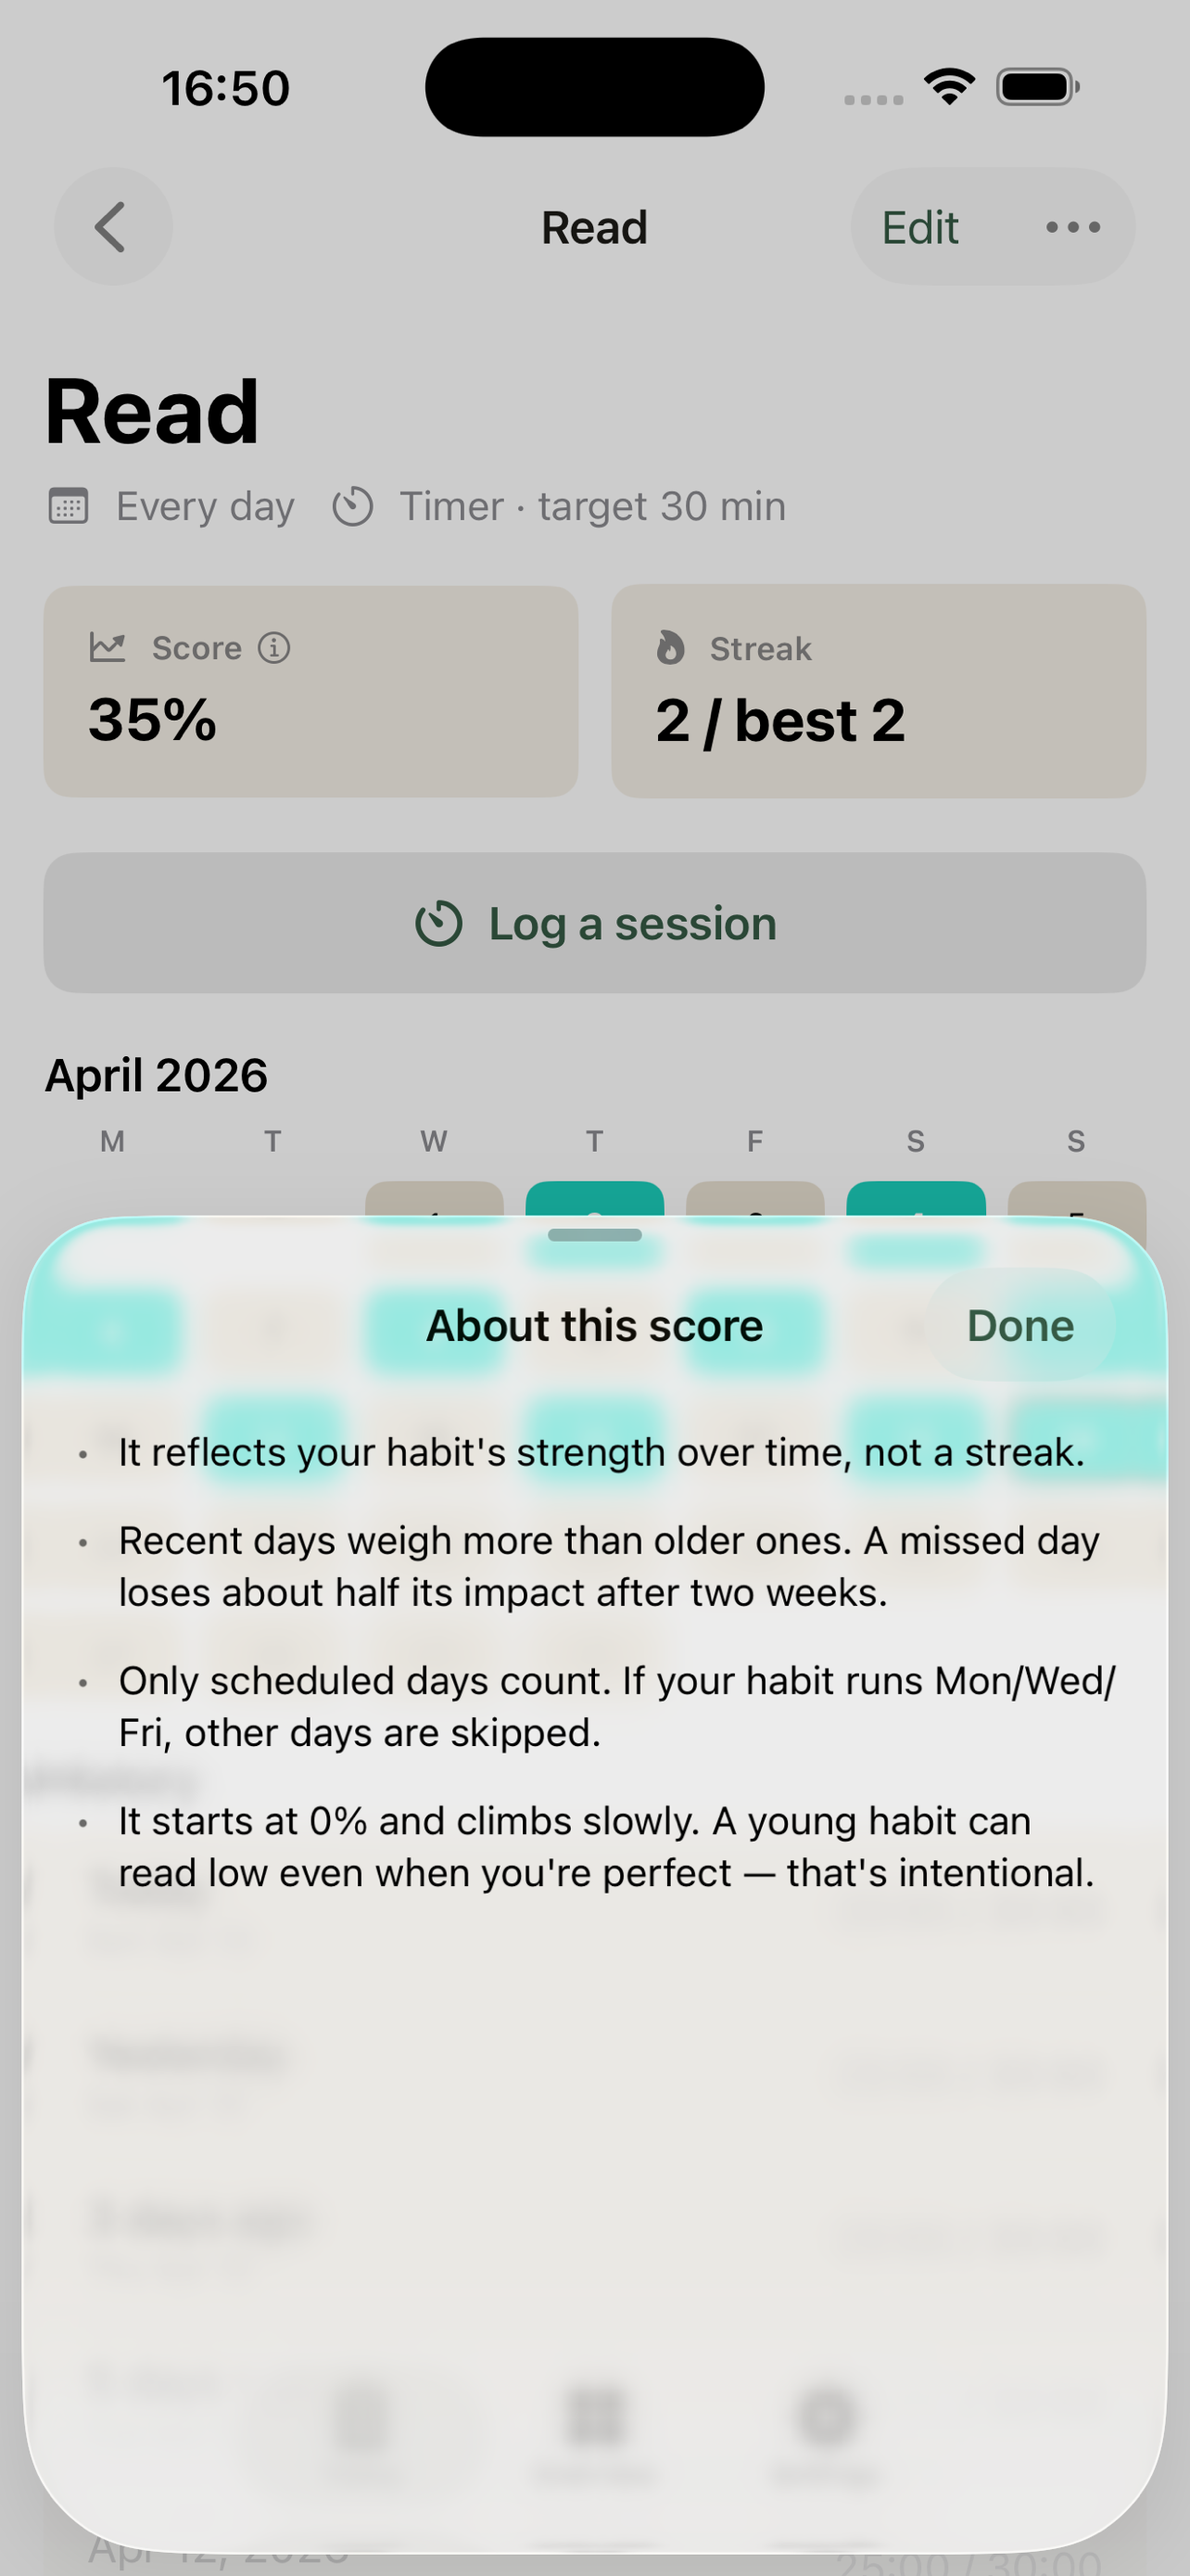
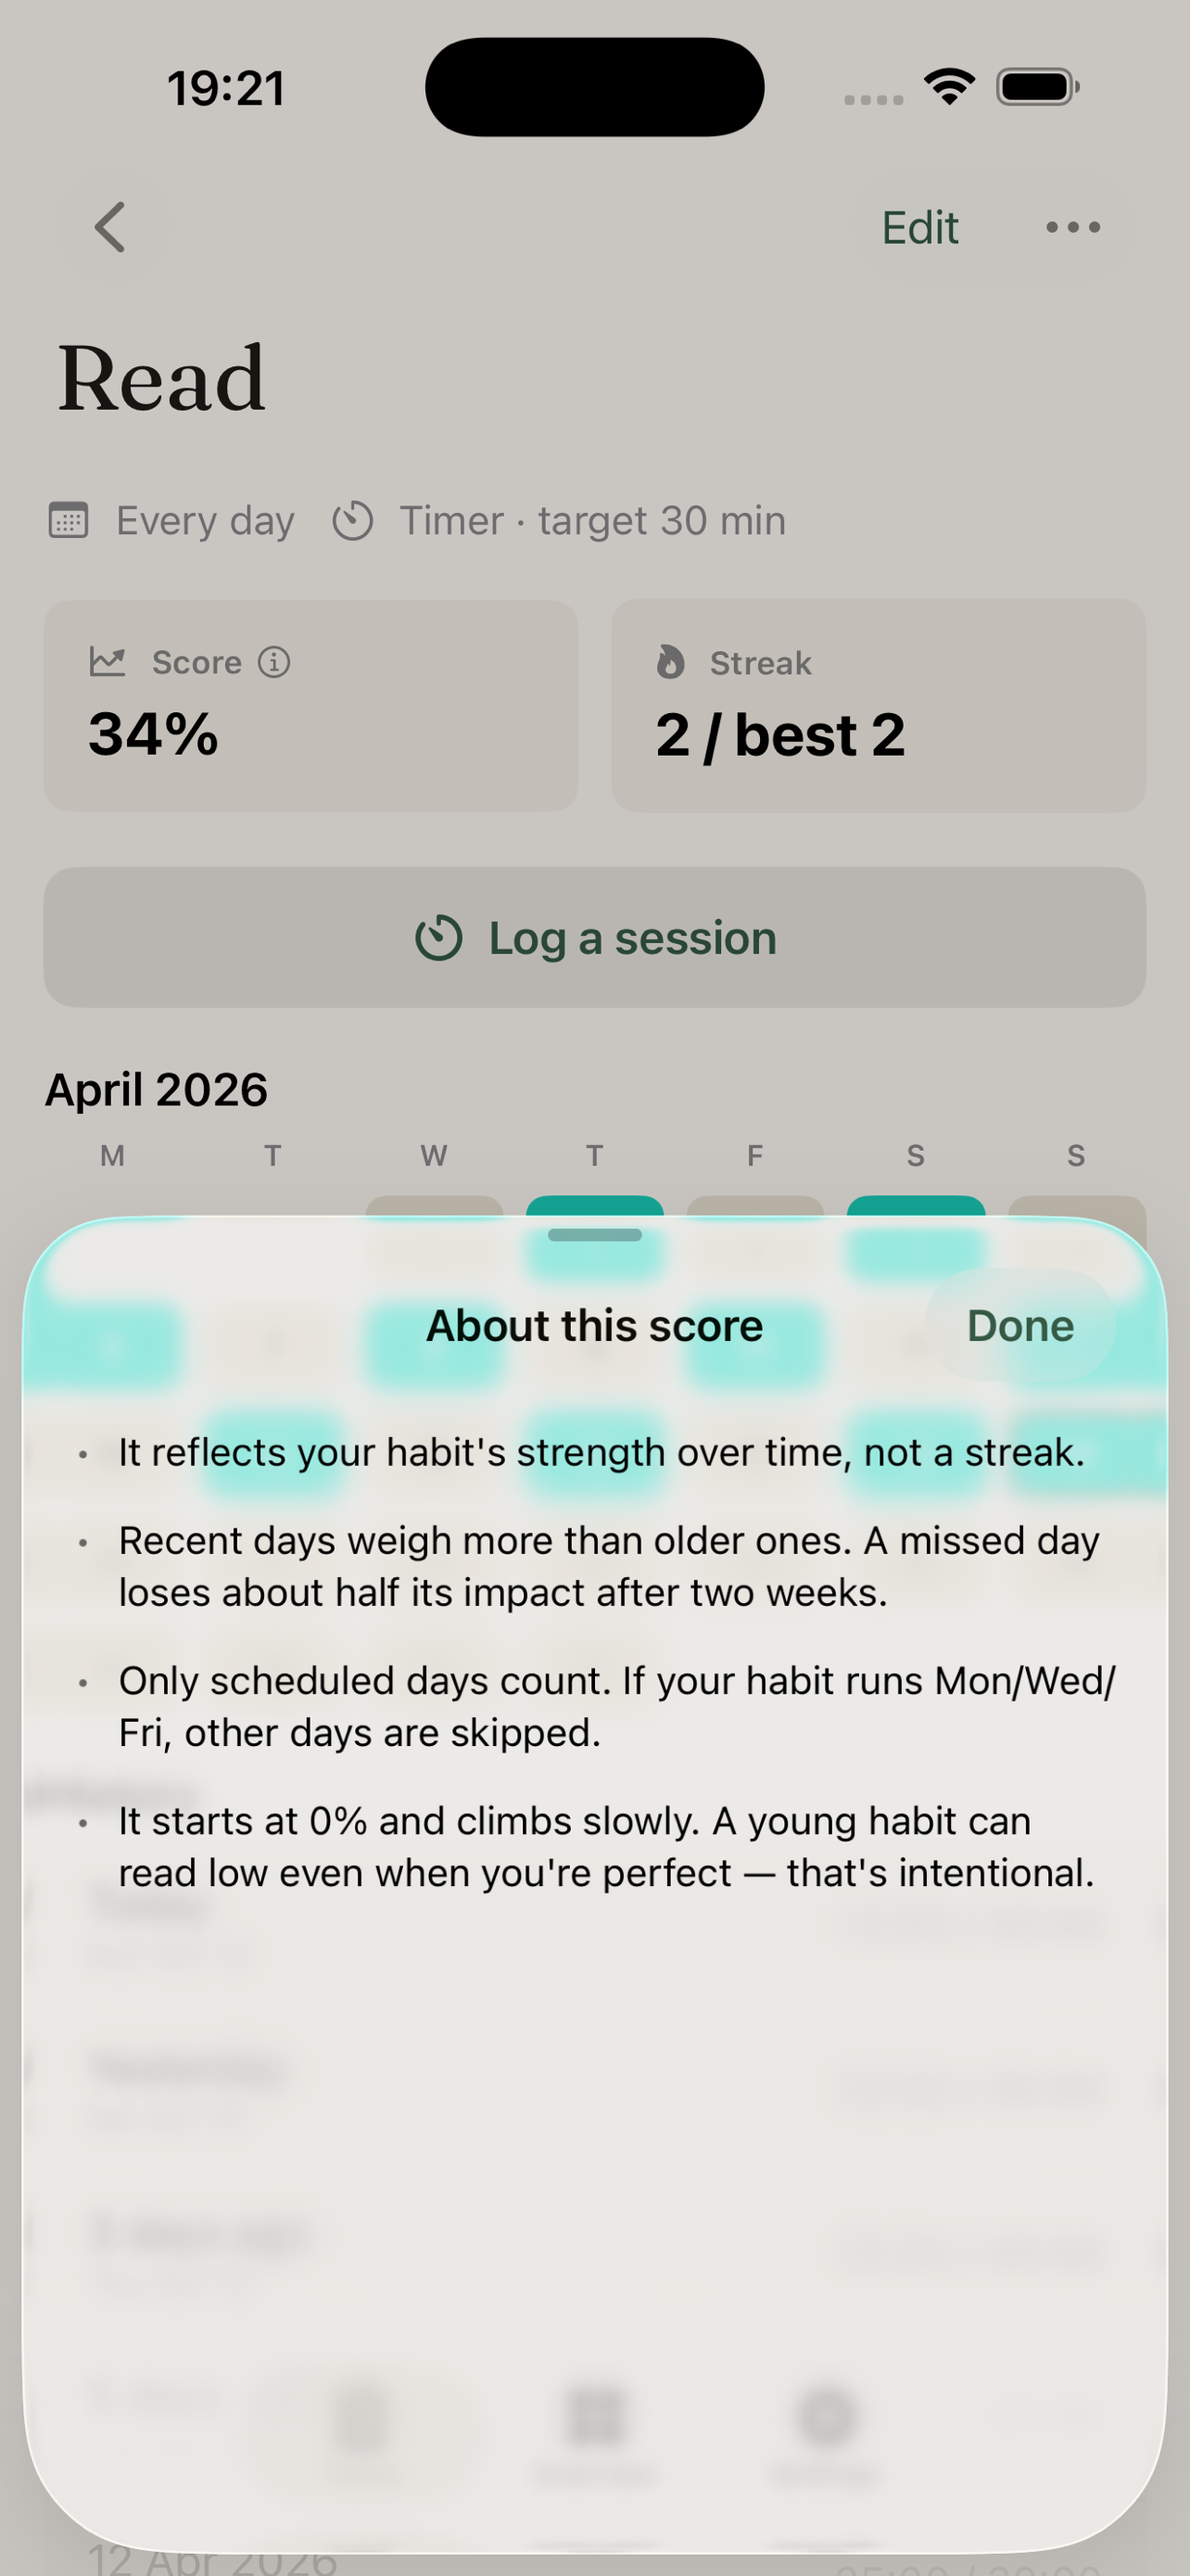
fix(habit-detail): apply paper theme + Fraunces title (#25)
* fix(habit-detail): apply paper theme + Fraunces title

- Add .scrollContentBackground(.hidden) + kadoBackground to the
  ScrollView — the root .kadoTheme() does not cascade through
  child NavigationStacks, so the detail view was painting on iOS
  default gray.
- Drop .navigationBarTitleDisplayMode(.inline) and the hand-rolled
  hero Text(habit.name); the nav bar large title now renders the
  habit name in Fraunces via UINavigationBarAppearance, matching
  Today and Overview.
- Bump CURRENT_PROJECT_VERSION 2 → 3 across all targets.
- Refresh docs/screenshots/ habit-detail shots (iphone-67,
  iphone-67-appstore, ipad-13 × en/fr).

* fix(habit-detail): iPad title — render Fraunces hero in content

- On iPad inside the tabbed NavigationStack, the nav bar title
  renders via a SwiftUI path that doesn't pick up
  UINavigationBarAppearance, and the floating tab pill was
  hosting a duplicate SF-rendered copy of the habit name.
- Reinstate the in-content hero (kadoDisplay, Fraunces-Regular
  34pt) so the habit name renders consistently as a serif on
  both iPhone and iPad, and force navigationTitle("") + inline
  to suppress the duplicate.
- Also set titleTextAttributes.font to Fraunces-Medium 17pt as
  a belt-and-braces override for any inline-title surfaces that
  do pick up UINavigationBarAppearance.
- Recapture iPad EN/FR screenshots against the fix.
- Bump CURRENT_PROJECT_VERSION 3 → 4.

---------

diff --git a/Kado/Views/HabitDetail/HabitDetailView.swift b/Kado/Views/HabitDetail/HabitDetailView.swift
@@ -36,7 +36,9 @@ struct HabitDetailView: View {
             }
             .padding()
         }
-        .navigationTitle(Text(habit.name))
+        .scrollContentBackground(.hidden)
+        .background(Color.kadoBackground.ignoresSafeArea())
+        .navigationTitle("")
         .navigationBarTitleDisplayMode(.inline)
         .toolbar {
             ToolbarItem(placement: .primaryAction) {
@@ -137,7 +139,7 @@ struct HabitDetailView: View {
     private var header: some View {
         VStack(alignment: .leading, spacing: 6) {
             Text(habit.name)
-                .font(.largeTitle.weight(.bold))
+                .kadoDisplay(size: 34)
             HStack(spacing: 12) {
                 Label(frequencyLabel, systemImage: frequencyIcon)
                 Label(typeLabel, systemImage: typeIcon)

diff --git a/Packages/KadoCore/Sources/KadoCore/Design/KadoThemeModifier.swift b/Packages/KadoCore/Sources/KadoCore/Design/KadoThemeModifier.swift
@@ -40,7 +40,9 @@ public struct KadoThemeModifier: ViewModifier {
             let nav = UINavigationBarAppearance()
             nav.configureWithDefaultBackground()
             nav.titleTextAttributes = [
-                .foregroundColor: UIColor(Color.kadoForeground)
+                .foregroundColor: UIColor(Color.kadoForeground),
+                .font: UIFont(name: "Fraunces-Medium", size: 17)
+                    ?? UIFont.systemFont(ofSize: 17, weight: .semibold)
             ]
             nav.largeTitleTextAttributes = [
                 .foregroundColor: UIColor(Color.kadoForeground),
